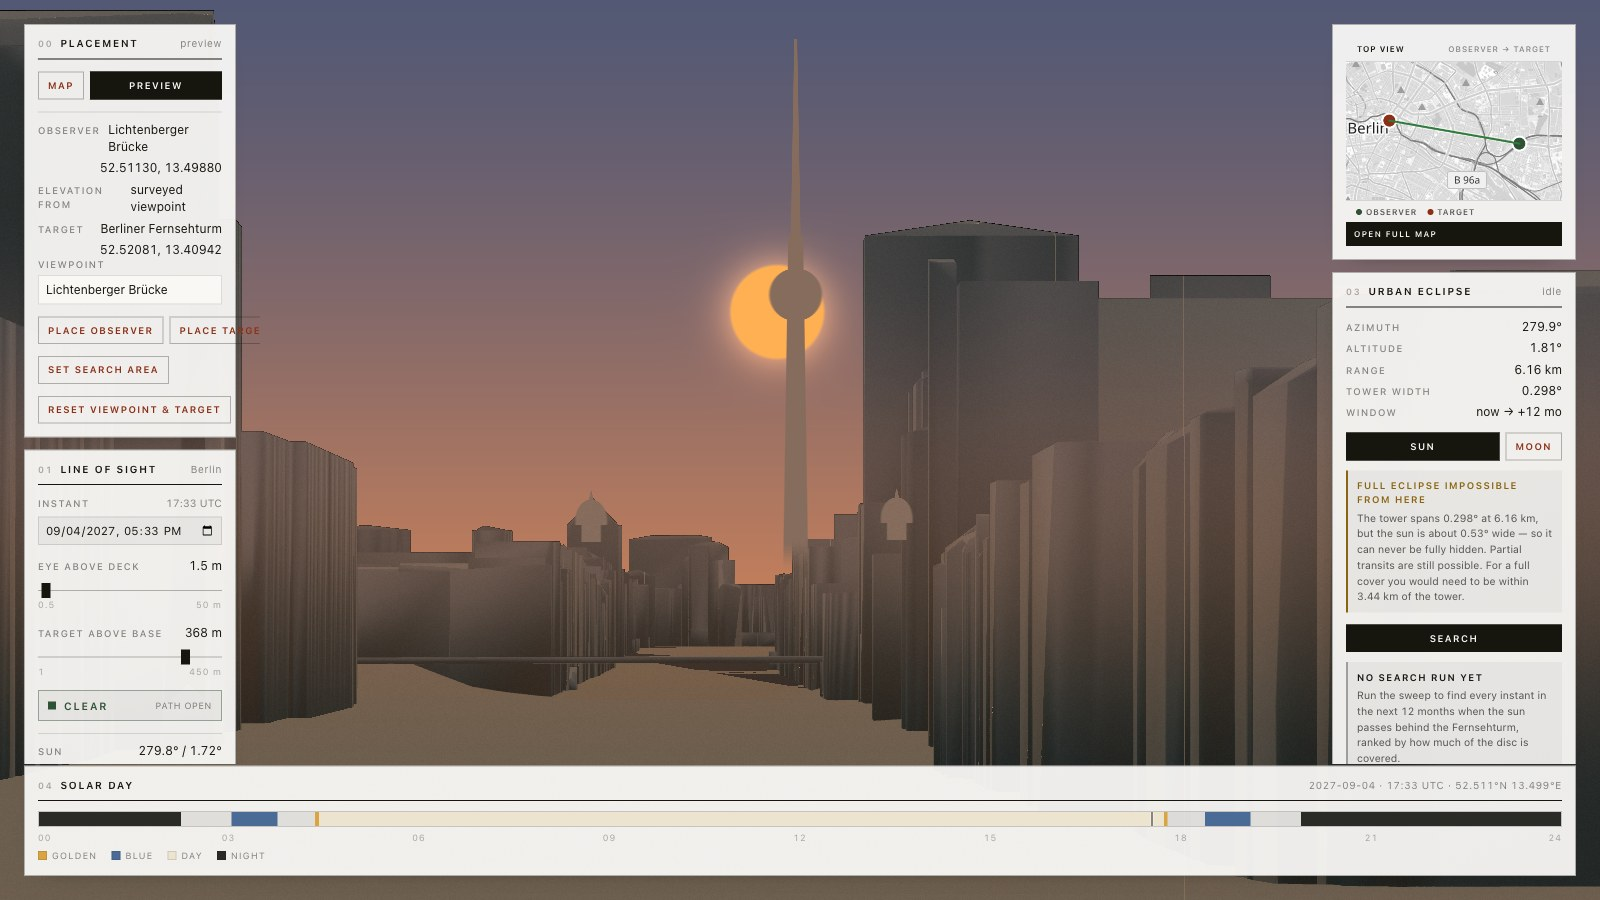
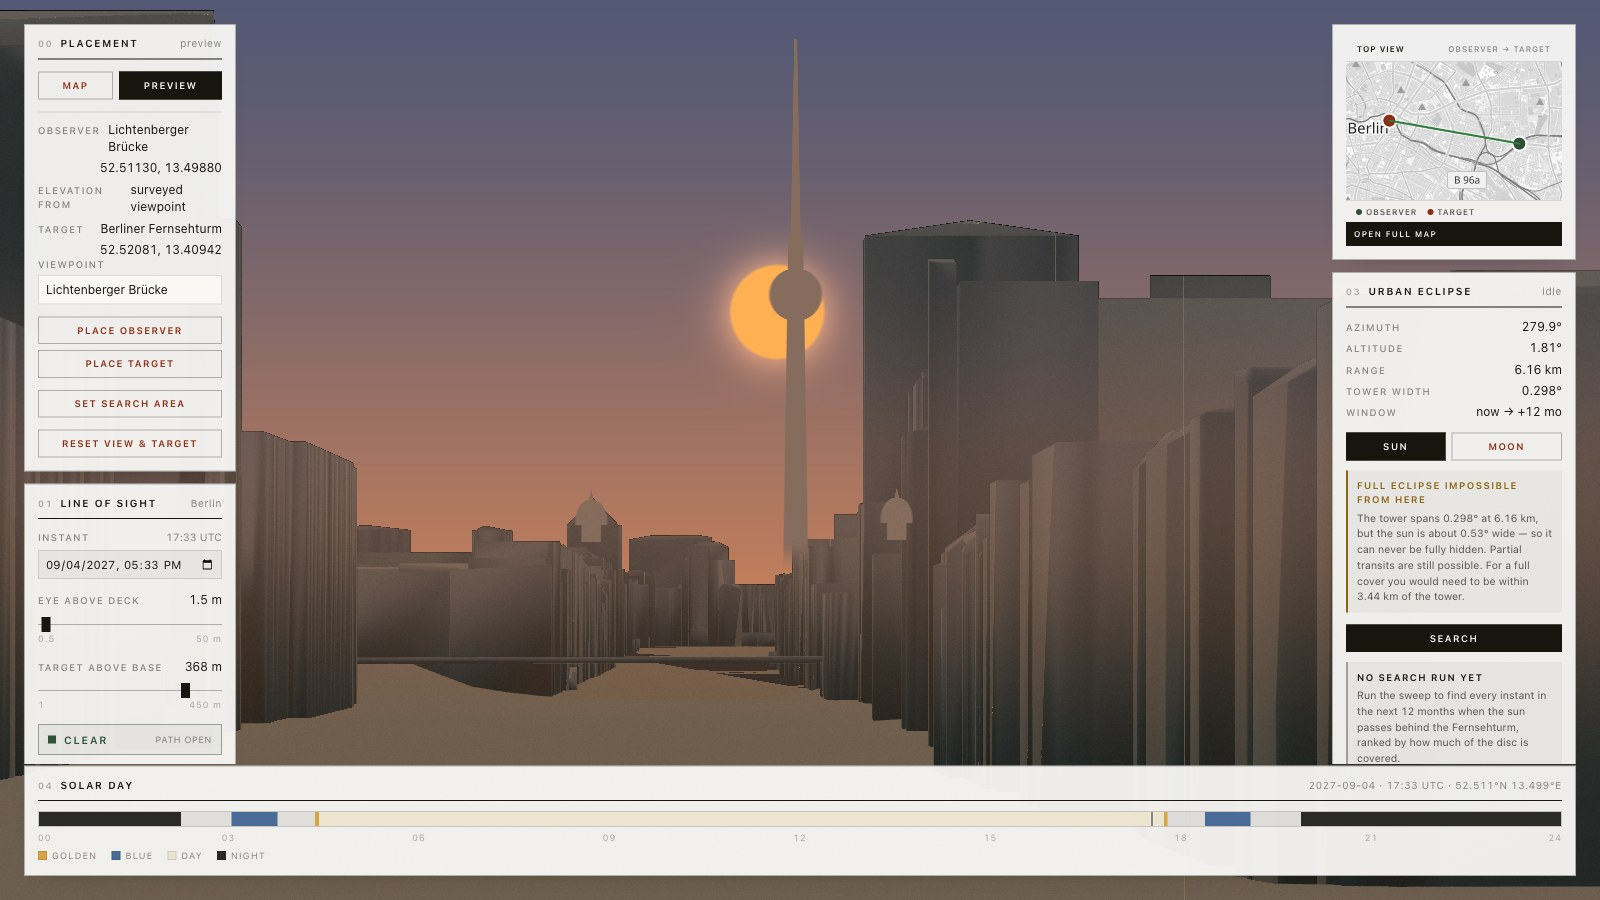
Point the README at urbaneclipse.oratio.co and refresh the screenshot
The app now lives on its own domain. The screenshot is captured from it and
shows the placement buttons inside the panel.

diff --git a/README.md b/README.md
@@ -7,7 +7,7 @@ composition: from the surveyed deck of Lichtenberger Brücke, an APS-C camera at
 The scene uses a real Berlin LoD2 model, the bridge elevation, astronomical position,
 camera geometry, and a line-of-sight check rather than a decorative mockup.
 
-[**Open the live prototype**](https://plastervoid-n.2.28.29.90.sslip.io/) · Built by
+[**Open the live prototype**](https://urbaneclipse.oratio.co/) · Built by
 [Tobias Treppmann](https://treppmann.de)
 
 ![Urban Eclipse framing the sun behind Berlin's Fernsehturm from Lichtenberger Brücke](docs/images/urban-eclipse-lichtenberger-bruecke.jpg)
